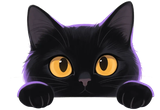
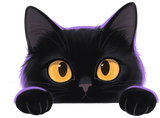
Nocny Kot 1.3.0: kot przy minimapie liże ją malowaną klatką z lokalnego ComfyUI
Zamiast doklejanego kreskówkowego języka – druga klatka tego samego kota (zmrużone oczy,
język na krawędzi) zrobiona lokalnie w FLUX.2 Klein Edit, tło usunięte RMBG 3.0; obie klatki
pokrywają się co do piksela i podczas lizania płynnie się przenikają. Usunięty jezyk.png.

diff --git a/margonem-nocny-kot/margonem-nocny-kot.user.js b/margonem-nocny-kot/margonem-nocny-kot.user.js
@@ -1,7 +1,7 @@
 // ==UserScript==
 // @name         Margonem – Nocny Kot
 // @namespace    https://github.com/Harkryn/Dodatki
-// @version      1.2.1
+// @version      1.3.0
 // @description  Minimalistyczny czarny motyw nowego interfejsu (NI) z kreskówkowymi kotami; fiolet tylko jako akcent. Tylko wygląd – bez zmian w logice gry.
 // @author       Harkryn
 // @match        https://*.margonem.pl/*
@@ -16,7 +16,7 @@
 // @resource     nktTail      https://raw.githubusercontent.com/Harkryn/Dodatki/main/assets/nocny-kot/ogonek.png
 // @resource     nktPaw       https://raw.githubusercontent.com/Harkryn/Dodatki/main/assets/nocny-kot/odcisk.png
 // @resource     nktMiniCat   https://raw.githubusercontent.com/Harkryn/Dodatki/main/assets/nocny-kot/kot-minimapa.png
-// @resource     nktTongue    https://raw.githubusercontent.com/Harkryn/Dodatki/main/assets/nocny-kot/jezyk.png
+// @resource     nktMiniLick  https://raw.githubusercontent.com/Harkryn/Dodatki/main/assets/nocny-kot/kot-minimapa-lize.png
 // @resource     nktEyes      https://raw.githubusercontent.com/Harkryn/Dodatki/main/assets/nocny-kot/oczy.png
 // @resource     nktHpPaw     https://raw.githubusercontent.com/Harkryn/Dodatki/main/assets/nocny-kot/lapka-hp.png
 // @resource     nktEarL      https://raw.githubusercontent.com/Harkryn/Dodatki/main/assets/nocny-kot/uszko-l.png
@@ -43,7 +43,7 @@
   // Stary interfejs (SI): gra zapisuje wybór w ciasteczku `interface` – w SI nic nie robimy.
   try { if (/(?:^|;\s*)interface=si\b/i.test(document.cookie || '')) return; } catch (e) { /* brak ciasteczek */ }
 
-  const VERSION = '1.2.1';
+  const VERSION = '1.3.0';
   const ON = 'nkt-on';          // motyw włączony
   const NI = 'nkt-ni';          // wykryto nowy interfejs
   const ANIM = 'nkt-anim';      // kocie animacje włączone
@@ -85,8 +85,8 @@
     chatCat: res('nktChatCat', 'spiacy-kot.png'),   // 240×123, kot śpiący na krawędzi (łapka i ogon zwisają); krawędź na 53% wysokości
     tail: res('nktTail', 'ogonek.png'),             // 81×180, puszysty ogon zwisający z krawędzi, miękki zakręt
     paw: res('nktPaw', 'odcisk.png'),               // 48×42, ciemne poduszki łapki na fioletowej poświacie
-    miniCat: res('nktMiniCat', 'kot-minimapa.png'), // 160×110, kot zaglądający zza krawędzi; nosek (85, 79), pyszczek y 90, krawędź y 96
-    tongue: res('nktTongue', 'jezyk.png'),          // 34×28, języczek do animacji lizania
+    miniCat: res('nktMiniCat', 'kot-minimapa.png'),        // 160×118, kot zaglądający zza krawędzi; dół głowy (krawędź) y 102
+    miniLick: res('nktMiniLick', 'kot-minimapa-lize.png'), // 160×118, ta sama klatka liżąca (lokalne ComfyUI: FLUX.2 Klein + RMBG 3.0)
     eyes: res('nktEyes', 'oczy.png'),               // 120×47, bursztynowe kocie oczy w ciemności (ekran wczytywania)
     hpPaw: res('nktHpPaw', 'lapka-hp.png'),         // 200×217, spód kociej łapki – kształt i tekstura kuli HP
     earL: res('nktEarL', 'uszko-l.png'),            // 58×72, puszyste lewe ucho z pędzelkiem
@@ -478,22 +478,17 @@ ${A} .nkt-chatcat .nkt-cat-img { transform-origin: 50% 70%; animation: nkt-breat
 ${A} .nkt-tail:hover .nkt-cat-img { animation: nkt-wag .95s ease-in-out; }
 @keyframes nkt-wag { 0% { transform: rotate(0); } 20% { transform: rotate(14deg); } 45% { transform: rotate(-11deg); } 70% { transform: rotate(6deg); } 100% { transform: rotate(0); } }
 
-/* kot zaglądający zza górnej krawędzi minimapy; co jakiś czas liże ją (klasa .nkt-lick na 1,2 s) */
-.nkt-minicat { width: 80px; }
-.nkt-minicat .nkt-tongue {
-  position: absolute; left: 34px; top: 43px; width: 17px; z-index: 1;   /* pod pyszczkiem (85, 90 w pliku → 42,5 / 45 px) */
-  transform-origin: 50% 0; transform: scaleY(0); opacity: 0;
-}
-${A} .nkt-minicat.nkt-lick .nkt-cat-img { animation: nkt-lick-head 1.2s ease-in-out; }
-${A} .nkt-minicat.nkt-lick .nkt-tongue { animation: nkt-lick-tongue 1.2s ease-in-out; }
-@keyframes nkt-lick-head { 0%, 100% { transform: translateY(0) rotate(0); } 30%, 70% { transform: translateY(2px) rotate(-3deg); } }
-@keyframes nkt-lick-tongue {
-  0%, 15% { transform: translateY(2px) scaleY(0); opacity: 0; }
-  30% { transform: translateY(2px) scaleY(1); opacity: 1; }
-  45% { transform: translate(1px, 2px) scaleY(.7); opacity: 1; }
-  60% { transform: translateY(2px) scaleY(1); opacity: 1; }
-  80%, 100% { transform: translateY(2px) scaleY(0); opacity: 0; }
-}
+/* kot zaglądający zza górnej krawędzi minimapy; co jakiś czas liże ją (klasa .nkt-lick na 1,3 s):
+   dwie nałożone klatki tego samego kota (zwykła i liżąca – zmrużone oczy, język na krawędzi; pokrywają się co do
+   piksela), podczas lizania płynnie się podmieniają, a kot lekko pochyla się do mapy. Obwódka na kontenerze,
+   żeby przy przenikaniu nie była podwójna. */
+.nkt-minicat { width: 80px; height: 59px; filter: drop-shadow(0 0 1px #7b4fd6) drop-shadow(0 0 .5px #7b4fd6) drop-shadow(0 2px 3px rgb(0 0 0 / .6)); }
+.nkt-minicat img { position: absolute; inset: 0; }
+.nkt-minicat .nkt-lick-frame { opacity: 0; }
+${A} .nkt-minicat.nkt-lick .nkt-base-frame { animation: nkt-lick-base 1.3s ease-in-out; }
+${A} .nkt-minicat.nkt-lick .nkt-lick-frame { animation: nkt-lick-frame 1.3s ease-in-out; }
+@keyframes nkt-lick-base { 0%, 8% { opacity: 1; transform: translateY(0); } 18%, 82% { opacity: 0; transform: translateY(2px); } 92%, 100% { opacity: 1; transform: translateY(0); } }
+@keyframes nkt-lick-frame { 0%, 8% { opacity: 0; transform: translateY(0); } 18%, 82% { opacity: 1; transform: translateY(2px); } 50% { transform: translateY(3px); } 92%, 100% { opacity: 0; transform: translateY(0); } }
 
 /* odciski łapek: wybrana pozycja list z grupami i środek cienkich separatorów */
 ${N} .one-item-on-divide-list.active {
@@ -1062,12 +1057,12 @@ html:not(.${ON}) #nkt-toggle { filter: grayscale(1); opacity: .35; }
     const win = map && (map.closest('.border-window') || map.parentElement);
     if (map && win && map.offsetWidth) {
       if (!deco.mini || deco.mini.parentElement !== win) {
-        deco.mini = mkDeco('nkt-minicat', `<img class="nkt-cat-img" alt="" src="${IMG.miniCat}"><img class="nkt-tongue" alt="" src="${IMG.tongue}">`);
+        deco.mini = mkDeco('nkt-minicat', `<img class="nkt-base-frame" alt="" src="${IMG.miniCat}"><img class="nkt-lick-frame" alt="" src="${IMG.miniLick}">`);
         if (getComputedStyle(win).position === 'static') win.style.position = 'relative';
         win.appendChild(deco.mini);
       }
       const r = relRect(map, win);
-      setPos(deco.mini, r.left + r.width * 0.72 - 40, r.top - 48);   // krawędź grafiki (y 96 z 110 → 48 px) na górze mapy
+      setPos(deco.mini, r.left + r.width * 0.72 - 40, r.top - 51);   // krawędź grafiki (dół głowy y 102 z 118 → 51 px) na górze mapy
     }
     // łapka HP: niskie HP (< 25%) z wysokości krwi ustawianej przez grę → klasa nkt-hp-low (pulsowanie)
     const ind = document.querySelector('.hp-indicator-wrapper-template .hp-indicator');
@@ -1086,7 +1081,7 @@ html:not(.${ON}) #nkt-toggle { filter: grayscale(1); opacity: .35; }
       const m = deco.mini;
       if (m && m.isConnected && root.classList.contains(ANIM) && !document.hidden && !(reduceMotion && reduceMotion.matches)) {
         m.classList.add('nkt-lick');
-        setTimeout(() => m.classList.remove('nkt-lick'), 1250);
+        setTimeout(() => m.classList.remove('nkt-lick'), 1350);
       }
       scheduleLick();
     }, 9000 + Math.random() * 9000);

diff --git a/assets/nocny-kot/PROMPTS.md b/assets/nocny-kot/PROMPTS.md
@@ -2,14 +2,16 @@
 
 Styl: malowany (wybrany 2026-11-24 zamiast kreskówki). Model: Qwen-Image (mcp-tools/Qwen-Image), 16 kroków.
 Negative prompt (wspólny): photorealistic, photo, realistic, 3d render, cartoon, chibi, thick outline, flat colors, text, letters, watermark, pixel art, busy background, logo (+ dopiski przy elementach).
+Od 2026-11-24 nowe grafiki powstają wyłącznie lokalnie w ComfyUI (RX 7900 XT).
 Tło: jasne, płaskie → usuwane lokalnie (alfa z różnicy koloru względem tła z miękkim przejściem, oczyszczenie koloru krawędzi), kadr i zmniejszenie z premultiplikacją (Pillow). Oczy: alfa z jasności na czarnym tle. Ekran wczytywania: malowany od razu na czerni, brzegi wygaszone.
 
 ## spiacy-kot.png (240×123) – kot śpiący na krawędzi czatu
 Stylized hand-painted game art illustration of a black cat sleeping stretched out on its belly along the top of a thin flat horizontal ledge, one front paw and the tail hanging lazily down over the front edge, eyes closed, natural cat proportions, soft painterly shading, subtle fur texture, glossy charcoal black fur with a soft violet rim light along the back, small violet collar, elegant and cozy, not cartoon, not photorealistic, side view, centered, isolated on plain flat light grey background
 Negative +: bread, food, pillow, furniture
 
-## kot-minimapa.png (160×110) – kot zaglądający zza krawędzi minimapy
+## kot-minimapa.png (160×118) – kot zaglądający zza krawędzi minimapy
 Stylized hand-painted game art illustration of a black cat peeking up from behind a straight horizontal edge, only its head and two front paws resting on the edge visible, curious big amber-yellow eyes, natural cat proportions, soft painterly shading, subtle fur texture, glossy charcoal black fur with a soft violet rim light, elegant and cute, not cartoon, not photorealistic, front view, centered, isolated on plain flat light grey background
+Obróbka (2026-11-24, lokalne ComfyUI): przeskalowany do 1168×880 i przepuszczony przez RMBG 3.0 razem z klatką liżącą, przycięty tym samym prostokątem – obie klatki pokrywają się co do piksela.
 
 ## ogonek.png (81×180) – ogon na krawędzi kolumny
 Stylized hand-painted game art illustration of one long black cat tail only, hanging straight down from the top edge of the image, gently swaying, its lower end curling into a soft hook, fluffy rounded tip, soft painterly shading, subtle fur texture, glossy charcoal black fur with a soft violet rim light on one side, elegant, not cartoon, not photorealistic, centered, isolated on plain flat light grey background
@@ -37,5 +39,7 @@ Negative +: roof, house, buildings, city, second cat, bright sky, blue sky, yell
 ## oczy.png (120×47) – oczy na ekranie wczytywania
 Stylized hand-painted game art illustration of only a pair of glowing cat eyes in total darkness, two almond-shaped eyes side by side, luminous amber-gold irises with narrow vertical slit pupils, soft wet highlight, faint violet glow around them, a barely visible hint of black fur around the eyes, mysterious, not cartoon, not photorealistic, centered, wide image, on plain solid black background
 
-## jezyk.png (34×28) – języczek do animacji lizania (tymczasowy, z poprzedniej, kreskówkowej serii)
-One single small cute cartoon cat tongue only, seen from the front, short rounded pink tongue shape hanging downward with a thin center line, soft pink #f2a7c3, thin even dark violet outline, flat colors. Minimalist flat cartoon sticker element, no mouth, no face, centered, isolated on plain flat light grey background
+## kot-minimapa-lize.png (160×118) – klatka lizania (lokalne ComfyUI)
+Model: FLUX.2 Klein 4B Image Edit (klein_edit_api, 4 kroki, CFG 1, batch 2), obraz wejściowy: kot-minimapa (oryginał 1472×1104).
+The black cat closes its eyes happily and sticks out a small pink tongue, licking the edge right in front of it. Keep exactly the same cat, the same pose and paws, the same framing and size, the same painterly style, colors, violet rim light and the same plain light grey background. Change only the eyes and the mouth.
+Tło: RMBG 3.0 (rmbg_api) z notatką: Subject: the black cat only - its head, ears, whiskers, tongue and both front paws resting on the edge. The grey ledge/box at the bottom and the plain background are NOT part of the subject. Dalej oczyszczenie koloru krawędzi i wspólny kadr z klatką bazową.
